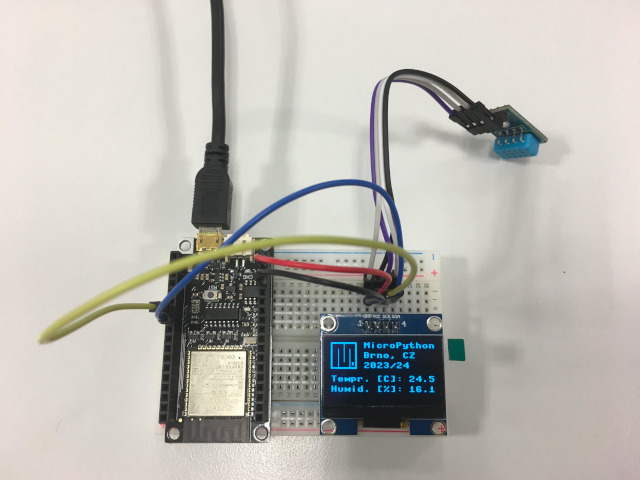
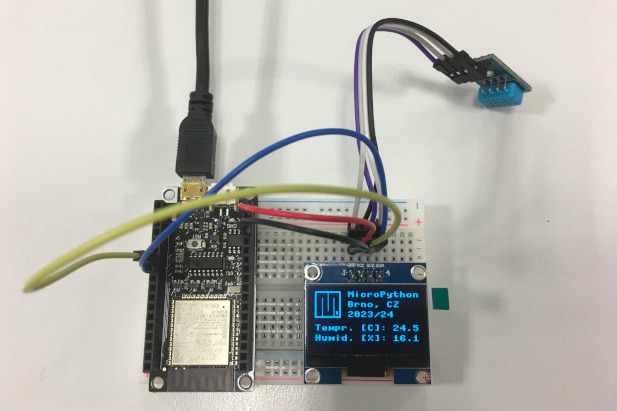
Changed title image

Changed region(s): [[0.0308, 0.0, 0.893, 0.9635], [0.4619, 0.9927, 0.5235, 1.0], [0.2156, 0.292, 0.2464, 0.3504]]

diff --git a/README.md b/README.md
@@ -1,8 +1,8 @@
 # MicroPython on ESP32/ESP8266 microcontollers
 
-The repository contains MicroPython lab exercises for [*Digital Electronics*](https://www.vut.cz/en/students/courses/detail/268609) course at Brno University of Technology, Czechia.
+The repository contains MicroPython lab exercises for [*Digital Electronics*](https://www.vut.cz/en/students/courses/detail/268609) course at Brno University of Technology, Czechia. The course focuses on digital circuits, microprocessor technology, embedded systems and uses the MicroPython language for programming 32-bit microcontrollers. Students will gain practical experience with individual parts of microprocessor systems and will also expand their knowledge of Python programming language.
 
-   ![firebeetle_multiple-leds](labs/03-gpio/images/firebeetle-multipl-leds.jpg)
+   ![firebeetle_multiple-leds](labs/06-serial/images/photo_oled.jpg)
 
 ## Installation
 
